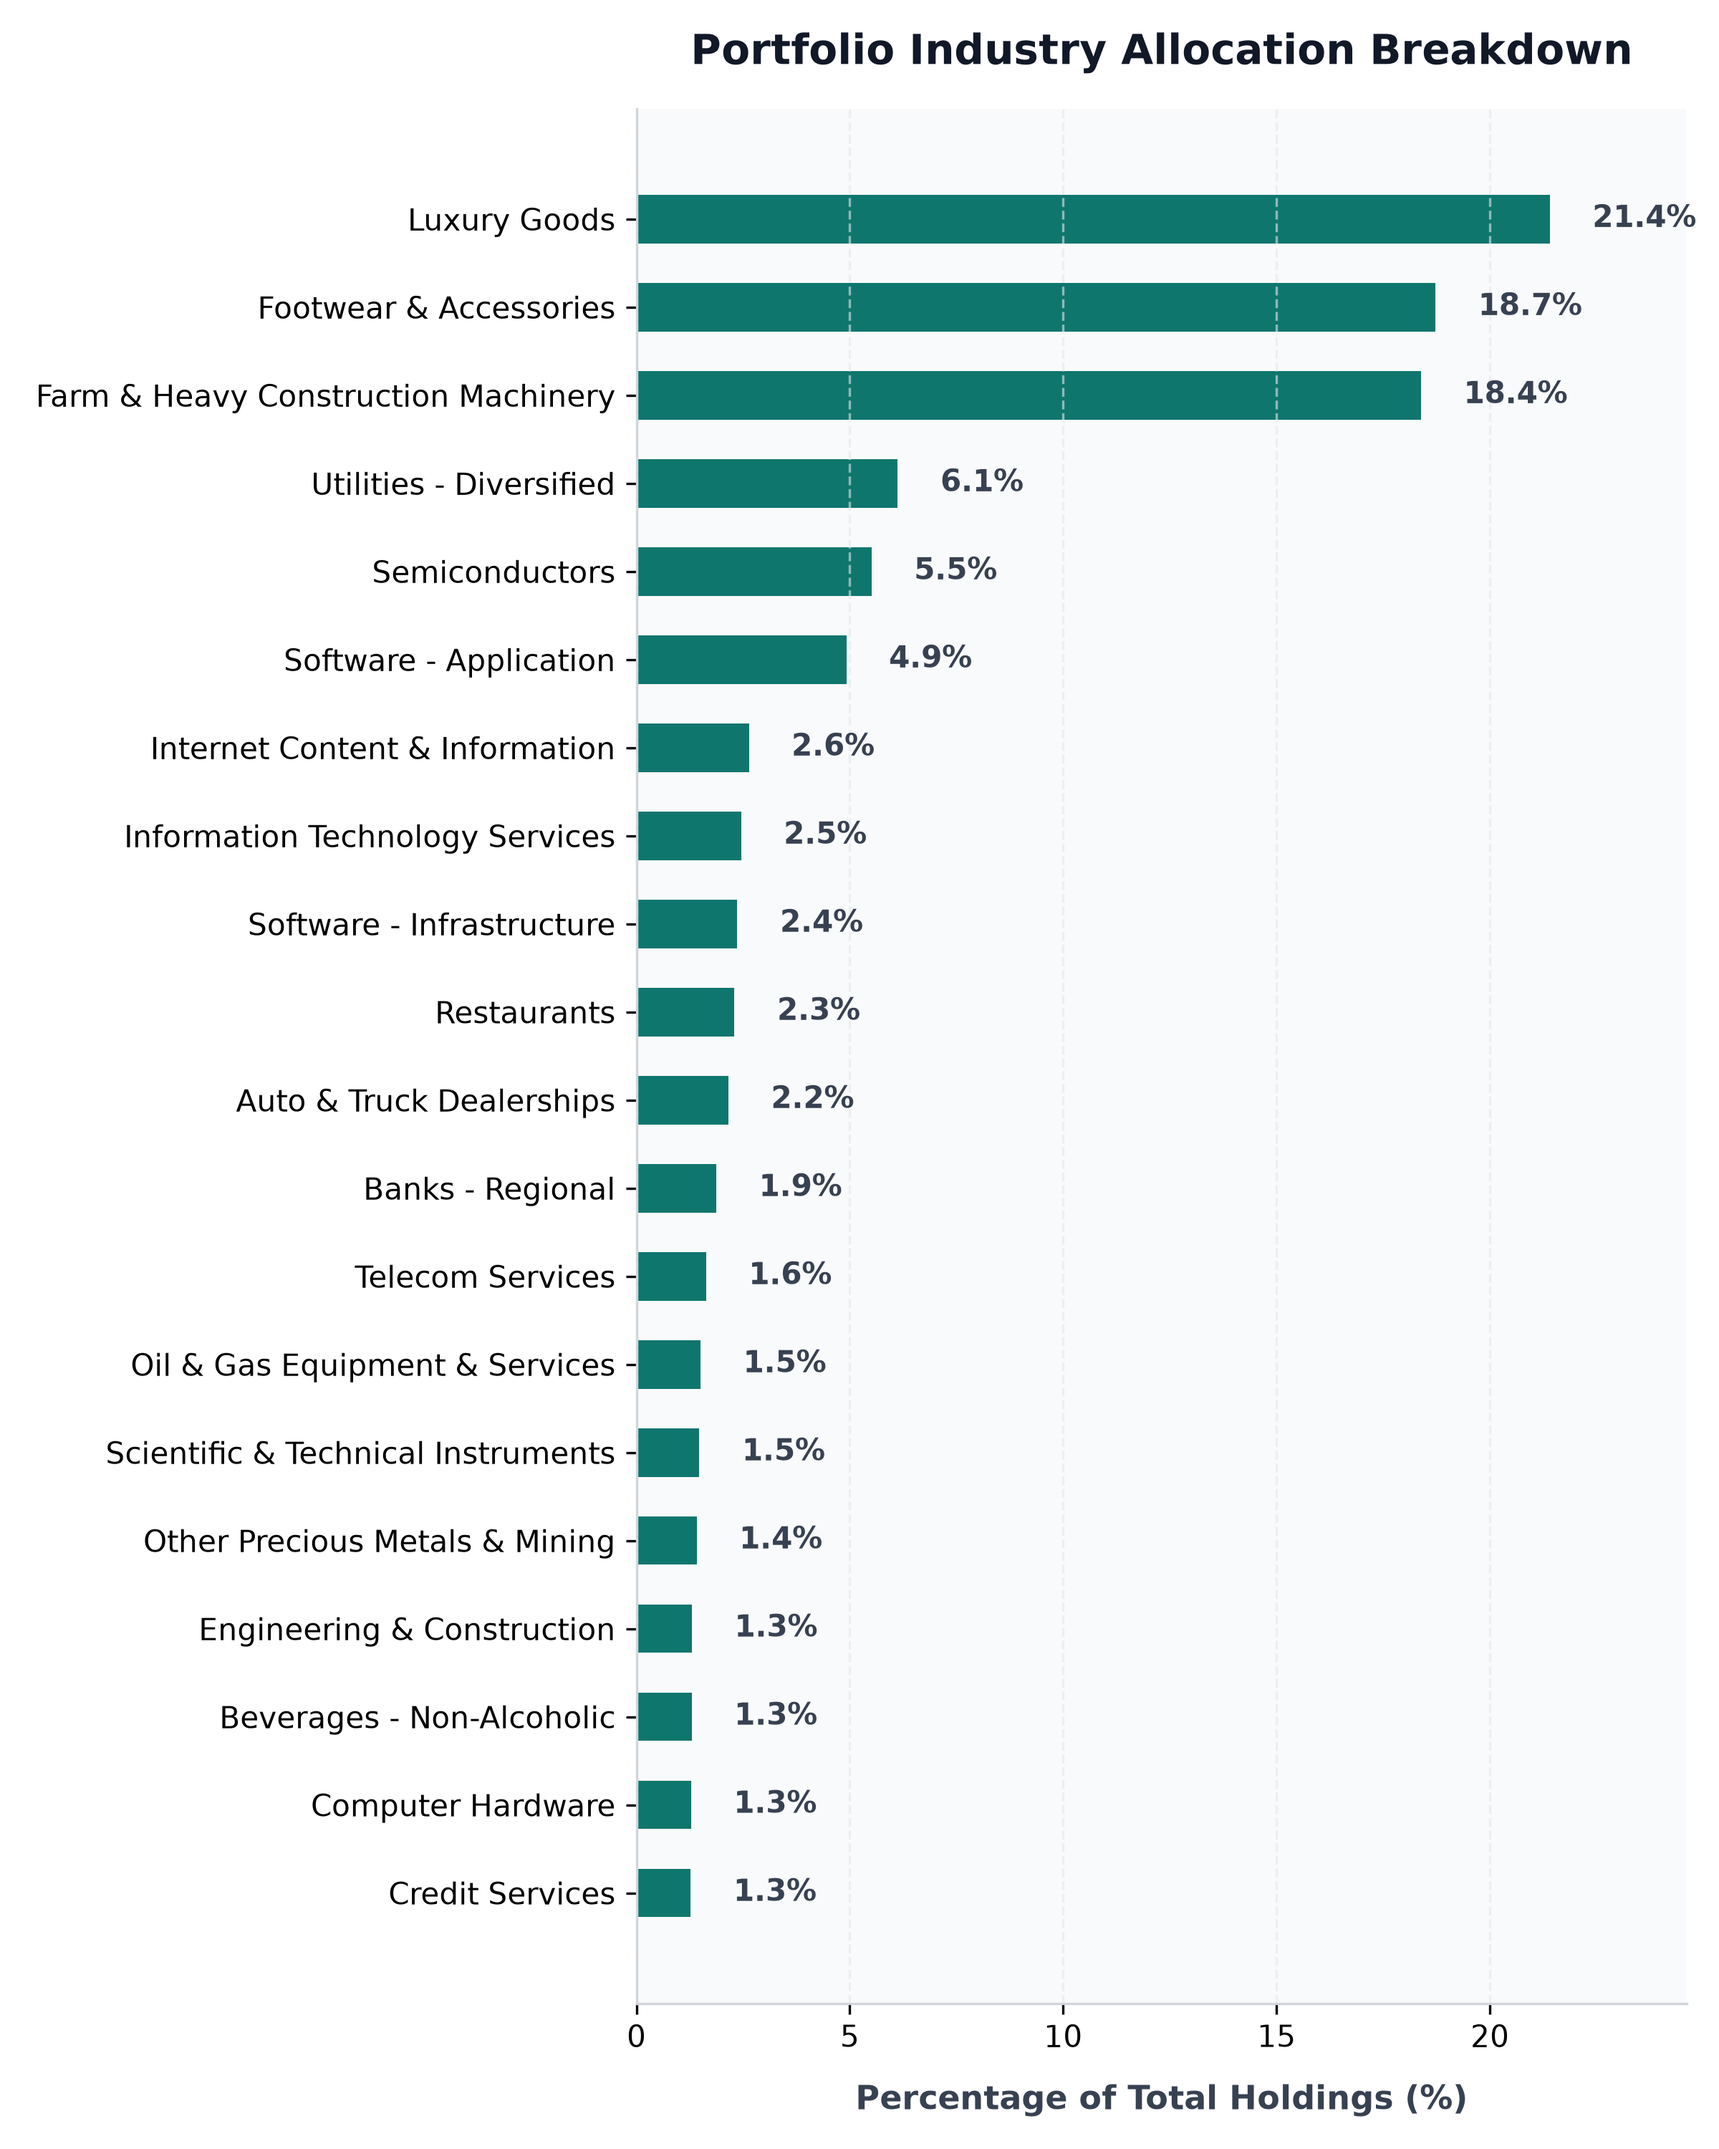
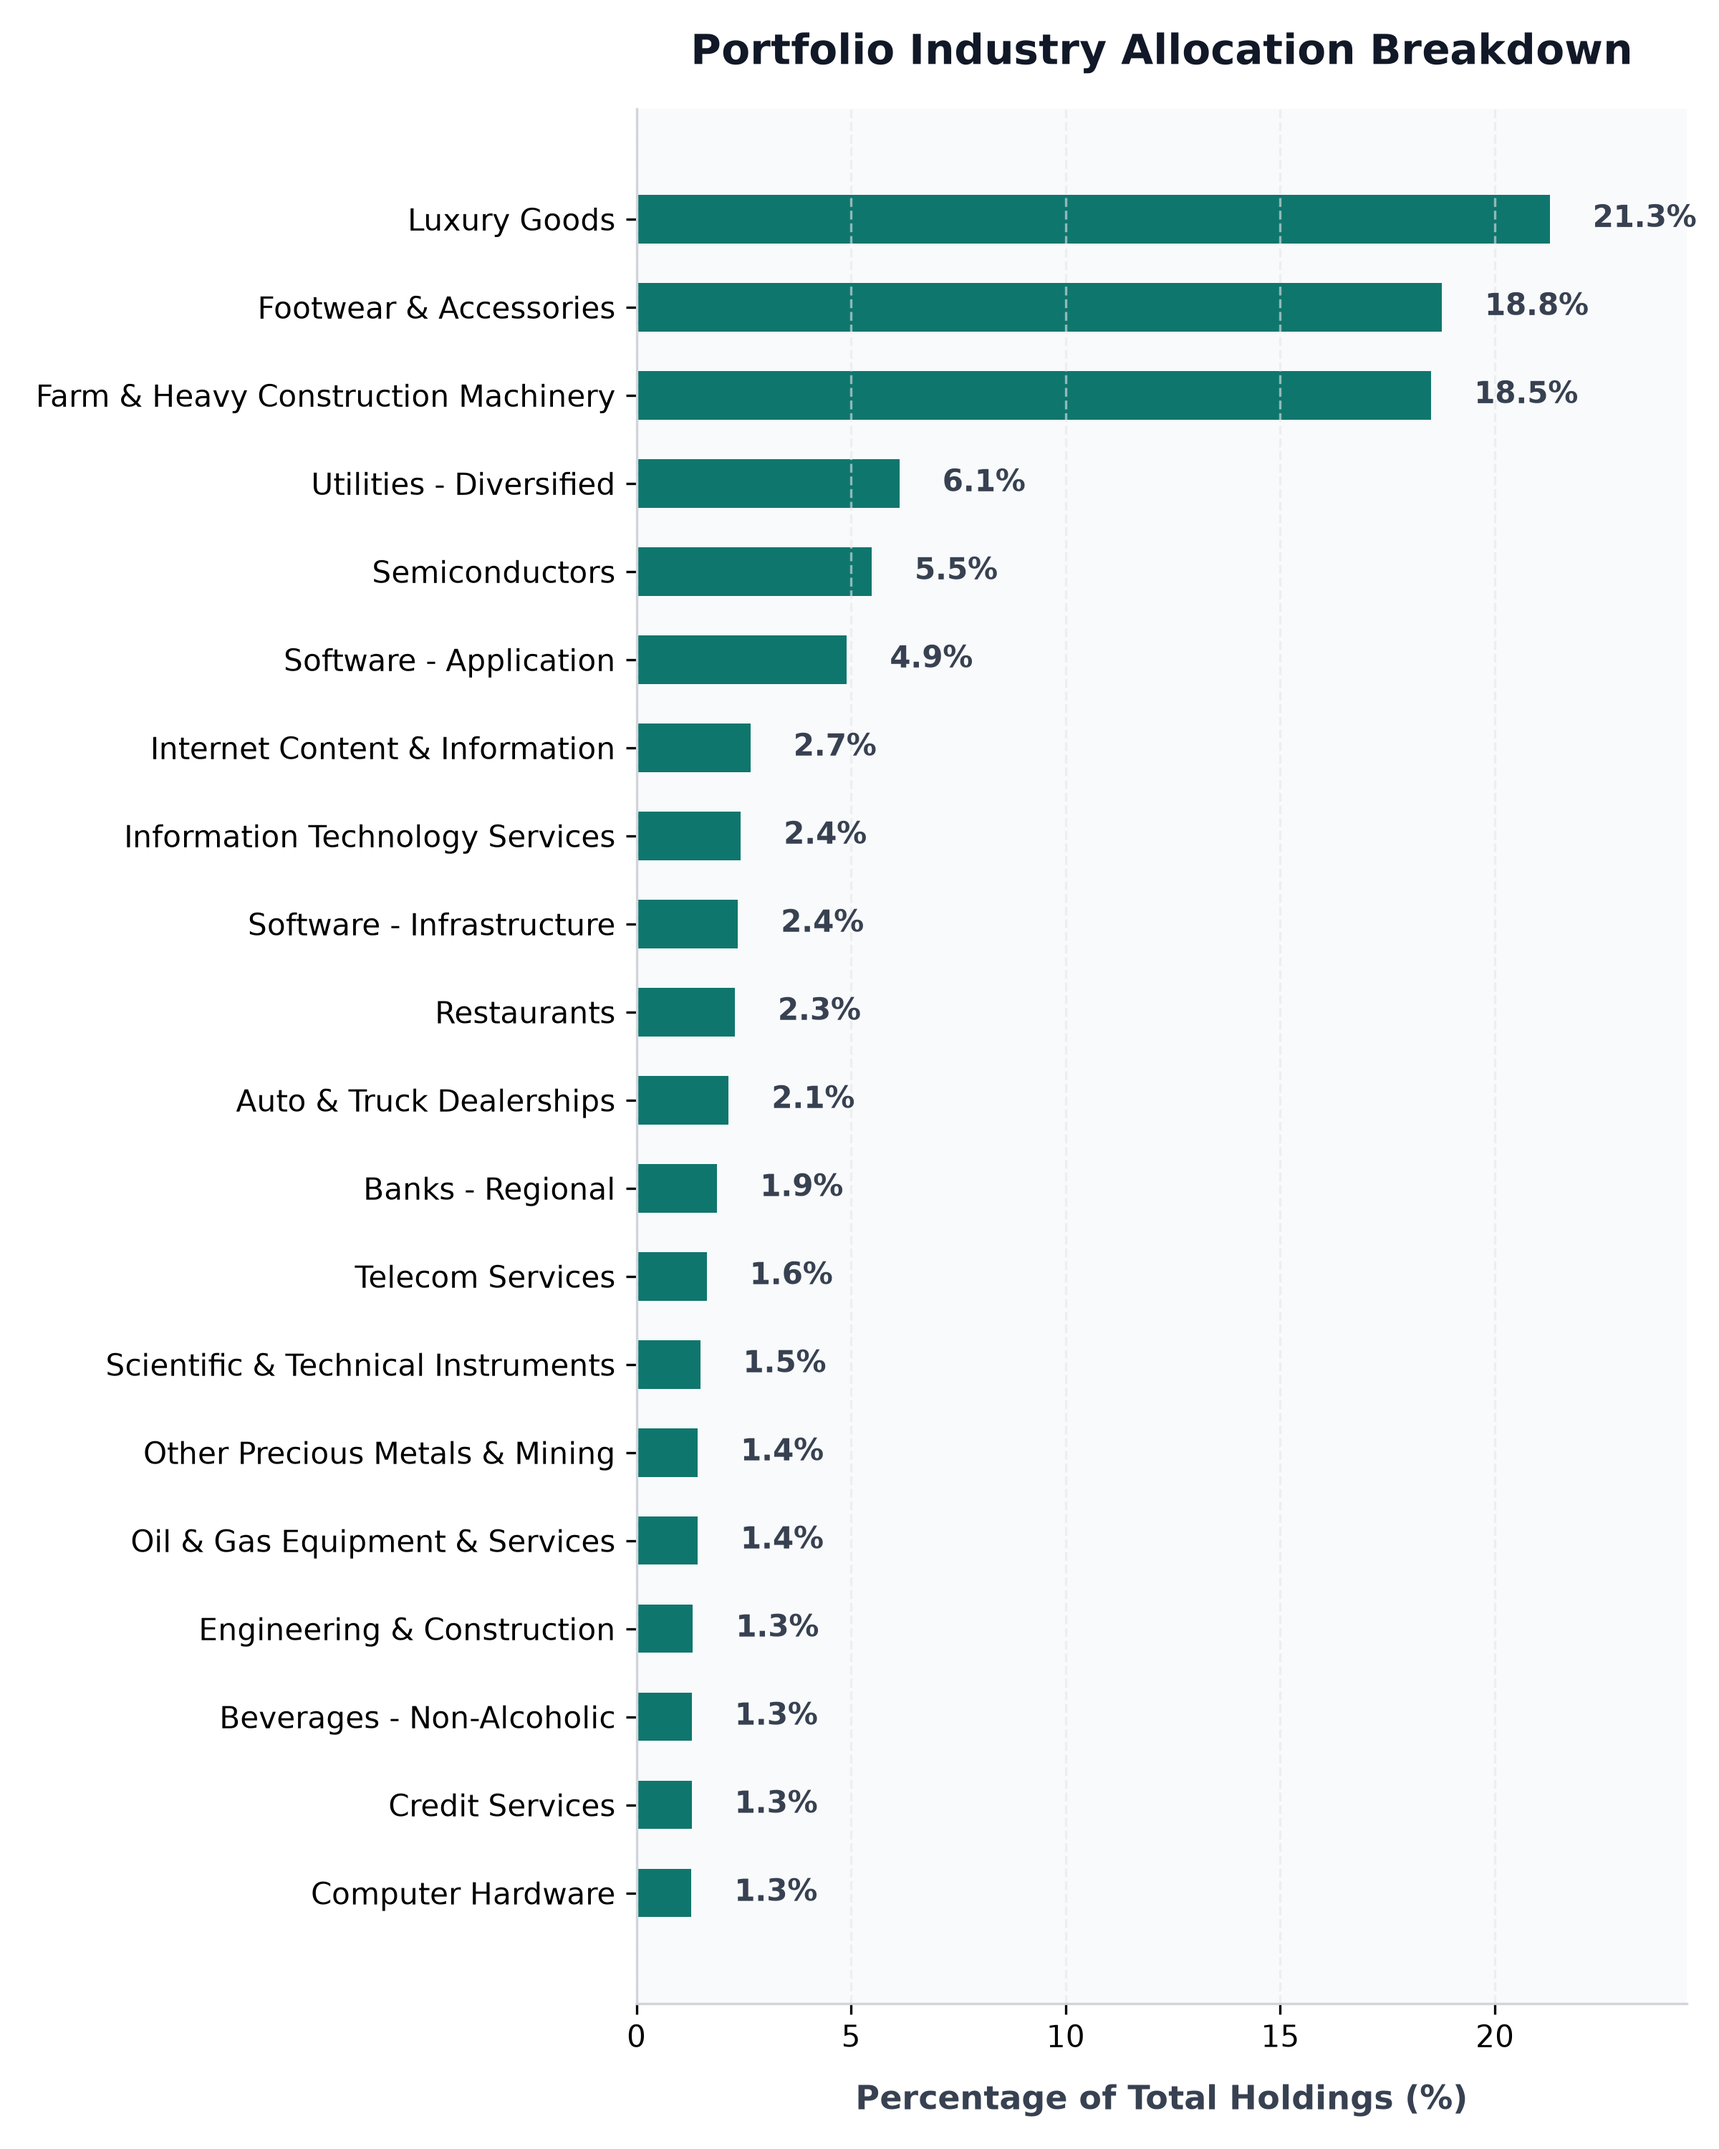
auto: daily portfolio status update - 2026-09-29 06:05:14

diff --git a/src/content/posts/portfolio-performance.md b/src/content/posts/portfolio-performance.md
@@ -1,6 +1,6 @@
 ---
 title: "BadOmen Algorithmic Portfolio Performance & PnL Report"
-pubDatetime: 2026-09-29T00:00:14.543834+08:00
+pubDatetime: 2026-09-29T06:05:14.028136+08:00
 description: "Live performance metrics, active holdings, and historic equity curve for the BadOmen automated paper trading portfolio."
 featured: true
 draft: false
@@ -16,11 +16,11 @@ Welcome to the live performance dashboard for **BadOmen**, our automated algorit
 ## 📊 Portfolio Summary
 | Performance Metric | Value | description |
 | :--- | :--- | :--- |
-| **Net Portfolio Equity** | **$95,985.97** | Total current liquidation value of cash and stock holdings |
-| **Total Unrealized P&L** | 🔴 **$-5,065.93** (-5.01%) | Total return of current open holdings |
+| **Net Portfolio Equity** | **$95,738.19** | Total current liquidation value of cash and stock holdings |
+| **Total Unrealized P&L** | 🔴 **$-5,314.14** (-5.26%) | Total return of current open holdings |
 | **Cash Balance** | $24,224.56 | Idle reserve currency available for limit orders |
-| **Buying Power** | $297,830.18 | Margin-backed buying power for entry allocations |
-| **Report Updated** | `2026-09-29 00:00:14 (SGT)` | Timestamp of daily execution and sync run |
+| **Buying Power** | $297,136.41 | Margin-backed buying power for entry allocations |
+| **Report Updated** | `2026-09-29 06:05:14 (SGT)` | Timestamp of daily execution and sync run |
 
 ## 📈 Net Equity Growth Curve
 The chart below illustrates the historical performance of the account starting from our baseline capital funding of $100,000.00.
@@ -35,35 +35,35 @@ The chart below illustrates the exposure of our currently held active positions 
 ## 💼 Current Position Holdings
 | Ticker | Industry | Shares Owned | Average Entry Cost | Current Price | Unrealized P&L | Return (%) |
 | :--- | :--- | :--- | :--- | :--- | :--- | :--- |
-| **AN** | Auto & Truck Dealerships | 5 | $188.51 | $163.66 | 🔴 $-124.24 | -13.18% |
-| **AVGO** | Semiconductors | 1 | $385.71 | $350.39 | 🔴 $-35.32 | -9.16% |
-| **BIRK** | Footwear & Accessories | 407 | $37.32 | $33.02 | 🔴 $-1,749.17 | -11.52% |
-| **BLBD** | Farm & Heavy Construction Machinery | 231 | $65.52 | $57.12 | 🔴 $-1,939.47 | -12.81% |
-| **BVN** | Other Precious Metals & Mining | 32 | $31.88 | $31.62 | 🔴 $-8.16 | -0.80% |
-| **CELH** | Beverages - Non-Alcoholic | 33 | $29.71 | $28.11 | 🔴 $-52.89 | -5.39% |
-| **CPRI** | Luxury Goods | 1042 | $14.55 | $14.74 | 🟢 +$196.10 | +1.29% |
-| **DUOL** | Software - Application | 14 | $131.04 | $136.41 | 🟢 +$75.19 | +4.10% |
-| **FIS** | Information Technology Services | 23 | $41.79 | $34.70 | 🔴 $-163.19 | -16.98% |
-| **GDDY** | Software - Infrastructure | 6 | $76.21 | $94.90 | 🟢 +$112.14 | +24.52% |
-| **GDS** | Information Technology Services | 30 | $32.77 | $32.03 | 🔴 $-22.05 | -2.24% |
-| **GGAL** | Banks - Regional | 17 | $56.04 | $37.10 | 🔴 $-321.97 | -33.80% |
-| **GOOGL** | Internet Content & Information | 3 | $319.44 | $340.64 | 🟢 +$63.60 | +6.64% |
-| **GPI** | Auto & Truck Dealerships | 3 | $316.15 | $242.51 | 🔴 $-220.92 | -23.29% |
-| **HUBS** | Software - Application | 8 | $221.18 | $202.43 | 🔴 $-150.05 | -8.48% |
-| **ITRI** | Scientific & Technical Instruments | 12 | $81.80 | $88.17 | 🟢 +$76.38 | +7.78% |
-| **KBR** | Engineering & Construction | 27 | $36.23 | $34.50 | 🔴 $-46.79 | -4.78% |
-| **NESR** | Oil & Gas Equipment & Services | 34 | $28.74 | $31.70 | 🟢 +$100.47 | +10.28% |
-| **NU** | Banks - Regional | 57 | $11.60 | $12.50 | 🟢 +$51.44 | +7.78% |
-| **ON** | Semiconductors | 10 | $90.45 | $74.93 | 🔴 $-155.25 | -17.16% |
-| **ORCL** | Software - Infrastructure | 5 | $181.95 | $132.62 | 🔴 $-246.68 | -27.12% |
-| **PATH** | Software - Infrastructure | 38 | $10.25 | $12.23 | 🟢 +$75.43 | +19.37% |
-| **PYPL** | Credit Services | 17 | $56.05 | $53.74 | 🔴 $-39.27 | -4.12% |
-| **QCOM** | Semiconductors | 15 | $193.68 | $190.12 | 🔴 $-53.55 | -1.84% |
-| **SMCI** | Computer Hardware | 22 | $29.25 | $41.73 | 🟢 +$274.56 | +42.67% |
-| **SRE** | Utilities - Diversified | 57 | $84.75 | $77.11 | 🔴 $-435.90 | -9.02% |
-| **T** | Telecom Services | 47 | $20.85 | $24.91 | 🟢 +$190.71 | +19.46% |
-| **WEN** | Restaurants | 257 | $8.02 | $6.42 | 🔴 $-413.44 | -20.05% |
-| **ZG** | Internet Content & Information | 31 | $31.35 | $28.01 | 🔴 $-103.64 | -10.66% |
+| **AN** | Auto & Truck Dealerships | 5 | $188.51 | $161.36 | 🔴 $-135.74 | -14.40% |
+| **AVGO** | Semiconductors | 1 | $385.71 | $349.29 | 🔴 $-36.42 | -9.44% |
+| **BIRK** | Footwear & Accessories | 407 | $37.32 | $32.97 | 🔴 $-1,769.52 | -11.65% |
+| **BLBD** | Farm & Heavy Construction Machinery | 231 | $65.52 | $57.33 | 🔴 $-1,890.96 | -12.50% |
+| **BVN** | Other Precious Metals & Mining | 32 | $31.88 | $31.90 | 🟢 +$0.85 | +0.08% |
+| **CELH** | Beverages - Non-Alcoholic | 33 | $29.71 | $27.96 | 🔴 $-57.81 | -5.90% |
+| **CPRI** | Luxury Goods | 1042 | $14.55 | $14.60 | 🟢 +$53.76 | +0.36% |
+| **DUOL** | Software - Application | 14 | $131.04 | $134.50 | 🟢 +$48.38 | +2.64% |
+| **FIS** | Information Technology Services | 23 | $41.79 | $34.35 | 🔴 $-171.12 | -17.80% |
+| **GDDY** | Software - Infrastructure | 6 | $76.21 | $94.00 | 🟢 +$106.74 | +23.34% |
+| **GDS** | Information Technology Services | 30 | $32.77 | $31.61 | 🔴 $-34.80 | -3.54% |
+| **GGAL** | Banks - Regional | 17 | $56.04 | $37.71 | 🔴 $-311.60 | -32.71% |
+| **GOOGL** | Internet Content & Information | 3 | $319.44 | $342.57 | 🟢 +$69.40 | +7.24% |
+| **GPI** | Auto & Truck Dealerships | 3 | $316.15 | $243.50 | 🔴 $-217.95 | -22.98% |
+| **HUBS** | Software - Application | 8 | $221.18 | $202.84 | 🔴 $-146.73 | -8.29% |
+| **ITRI** | Scientific & Technical Instruments | 12 | $81.80 | $88.49 | 🟢 +$80.28 | +8.18% |
+| **KBR** | Engineering & Construction | 27 | $36.23 | $34.84 | 🔴 $-37.61 | -3.84% |
+| **NESR** | Oil & Gas Equipment & Services | 34 | $28.74 | $29.98 | 🟢 +$42.16 | +4.32% |
+| **NU** | Banks - Regional | 57 | $11.60 | $12.36 | 🟢 +$43.40 | +6.57% |
+| **ON** | Semiconductors | 10 | $90.45 | $76.00 | 🔴 $-144.55 | -15.98% |
+| **ORCL** | Software - Infrastructure | 5 | $181.95 | $132.16 | 🔴 $-248.95 | -27.37% |
+| **PATH** | Software - Infrastructure | 38 | $10.25 | $12.25 | 🟢 +$76.17 | +19.56% |
+| **PYPL** | Credit Services | 17 | $56.05 | $54.15 | 🔴 $-32.30 | -3.39% |
+| **QCOM** | Semiconductors | 15 | $193.68 | $187.38 | 🔴 $-94.57 | -3.26% |
+| **SMCI** | Computer Hardware | 22 | $29.25 | $41.66 | 🟢 +$273.02 | +42.43% |
+| **SRE** | Utilities - Diversified | 57 | $84.75 | $76.89 | 🔴 $-448.16 | -9.28% |
+| **T** | Telecom Services | 47 | $20.85 | $24.94 | 🟢 +$192.23 | +19.62% |
+| **WEN** | Restaurants | 257 | $8.02 | $6.38 | 🔴 $-422.44 | -20.49% |
+| **ZG** | Internet Content & Information | 31 | $31.35 | $28.15 | 🔴 $-99.30 | -10.22% |
 
 ## 🔴 Recent Realized Trades
 | Ticker | Shares Sold | Entry Price | Exit Price | Strategy Trigger | Realized Return | Exit Date |
